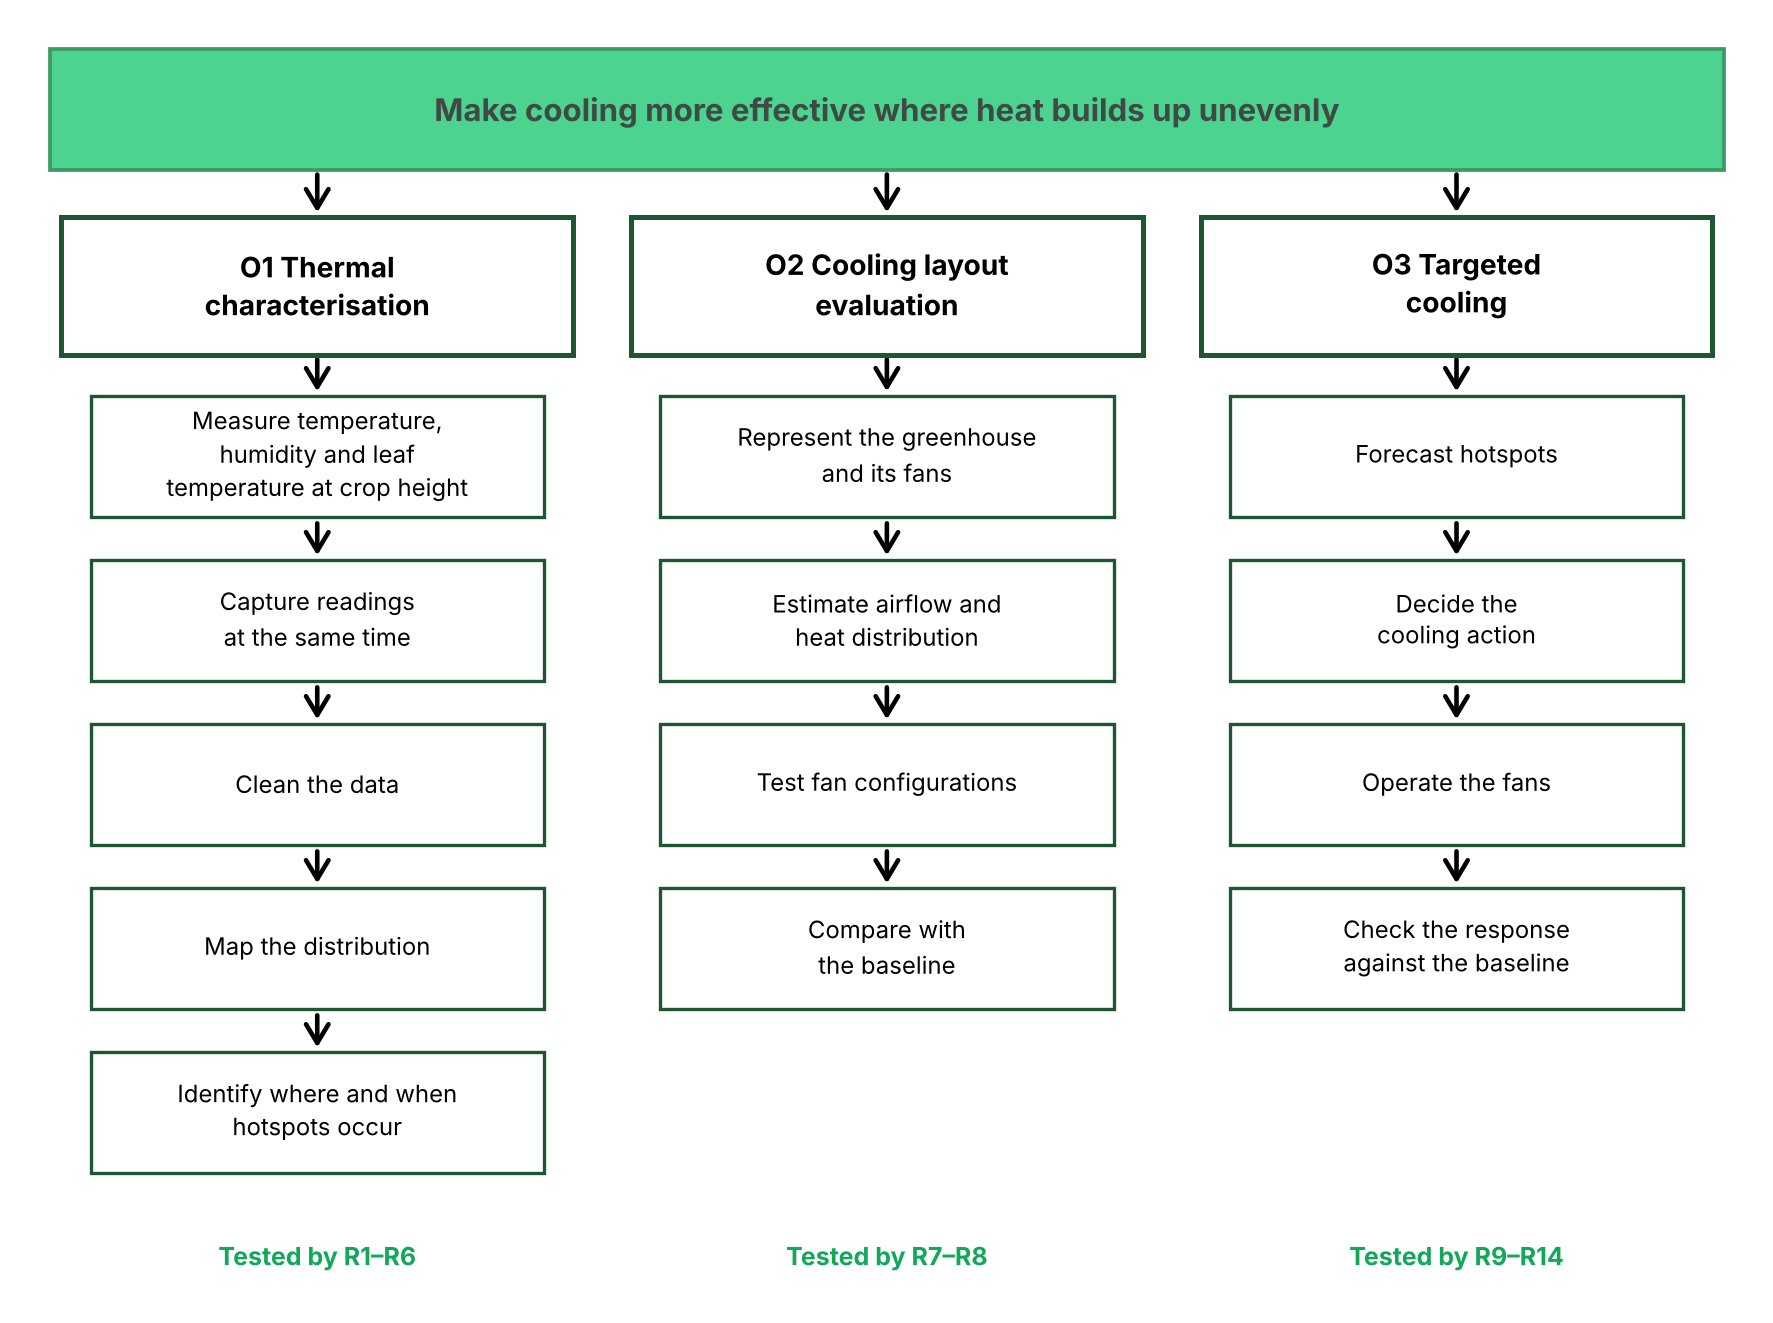
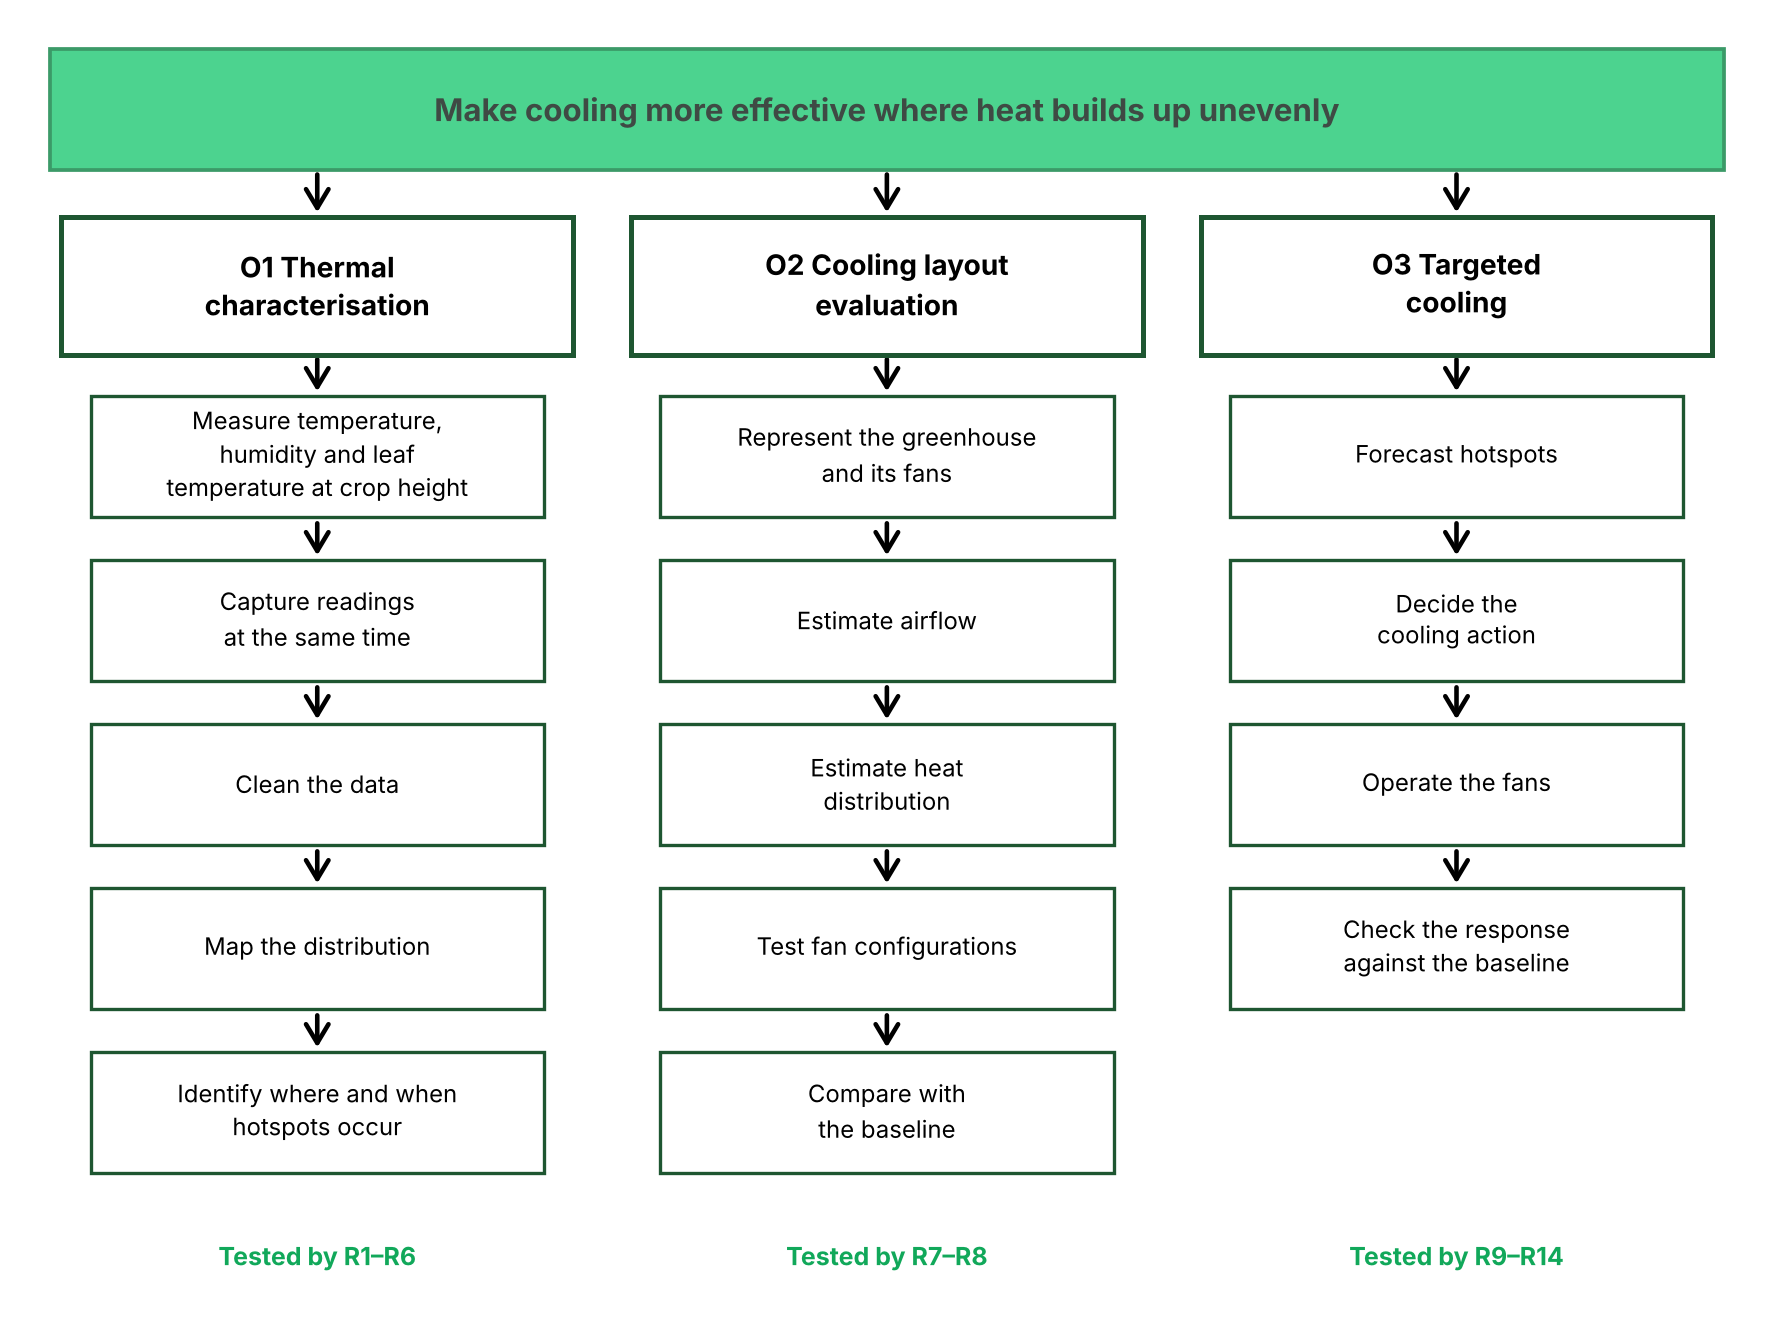
Split O2 function into airflow and heat distribution (table, 4.1 text, Figure 10, Table 9)
Claude-Session: https://claude.ai/code/session_01DMX67LB1LwVtEXfwtyfhDE

diff --git a/docs/report-tables.js b/docs/report-tables.js
@@ -117,7 +117,7 @@ const tables = {
     columns: ["Subsystem", "Goal", "Deliverables", "Verified by", "Status (end of Semester 1)"],
     data: [
       ["S1 Sense", "Durable, location-tagged crop-zone T/RH and canopy temperature", "Type A/B nodes, shielded enclosure, RS-485 network, permanent and temporary nodes, gateway logging", "R1–R6", "Prototype node; bench accuracy tested; RS-485 to MQTT verified"],
-      ["S2 Map & Model", "Thermal map with soft sensors; 30-min hotspot prediction; CFD checked in the test section; fan-configuration comparison", "Soft-sensor and prediction models, Gaussian process regression map, CFD model, configuration ranking, dashboard", "R5–R9, R13", "57-point survey and heatmap; GH1 dimensions recorded"],
+      ["S2 Map & Model", "Thermal map with soft sensors; 30-min hotspot prediction; airflow from CFD and heat distribution from live data and CFD, checked in the test section; fan-configuration comparison", "Soft-sensor and prediction models, Gaussian process regression map, CFD model, configuration ranking, dashboard", "R5–R9, R13", "57-point survey and heatmap; GH1 dimensions recorded"],
       ["S3 Decide", "Decide fan actions from predicted crop-zone hotspots", "Hotspot index; prediction-triggered rules with fail-safe", "R9, R10, R12, R14", "Control approach defined"],
       ["S4 Actuate", "Run fan commands safely and measure their energy", "Four procured floor fans, speed/relay interface, energy metering", "R10–R12", "Fans to be procured"],
     ],
@@ -130,10 +130,11 @@ const tables = {
       { group: "O1 Thermal characterisation" },
       ["Capture readings at the same time", "Sensor-to-gateway link", "RS-485, Wi-Fi, BLE, Zigbee, LoRa", "RS-485, wireless option benchmarked", "Robust over ~57 m and already verified end-to-end; wireless avoids cabling but needs reliability and power testing"],
       ["Clean the data", "Edge computer", "Raspberry Pi 5, laptop, cloud", "Raspberry Pi 5", "Low cost and power: runs Docker, MQTT and Node-RED locally"],
-      ["Map the distribution", "Thermal map method", "Permanent grid inverse-distance weighting. Gaussian process regression: soft sensors trained on temporary nodes", "Soft sensors, with Gaussian process regression between nodes", "Fewer permanent nodes after training; Gaussian process regression shows where uncertainty remains"],
+      ["Map the distribution", "Thermal map method", "Permanent grid inverse-distance weighting. Gaussian process regression: soft sensors trained on temporary nodes", "Soft sensors, with Gaussian process regression between nodes", "Fewer permanent nodes after training. Gaussian process regression shows where uncertainty remains"],
       { group: "O2 Cooling layout evaluation" },
-      ["Estimate airflow and heat distribution", "Modelling approach", "Run CFD live; data only; offline CFD plus data-driven twin", "Offline CFD for design; data-driven twin for operation, tested together", "CFD is too slow for live use but can evaluate untested layouts; a data-driven twin is fast and checked directly by sensors"],
-      ["Estimate airflow and heat distribution", "CFD tool", "SOLIDWORKS Flow Simulation; ANSYS Fluent; OpenFOAM", "SOLIDWORKS Flow Simulation", "Integrated with the CAD model and available; adequate for comparative studies"],
+      ["Estimate airflow", "Airflow method", "CFD; dense airspeed survey; empirical fan-jet estimates", "Offline CFD with measured inputs (roof temperature, fan flow, geometry)", "Airflow cannot be measured densely; CFD can evaluate layouts before they are installed"],
+      ["Estimate heat distribution", "Heat-distribution method", "CFD only; measured data only; both", "Live data-driven twin for tested layouts; CFD for layouts not yet installed", "Sensors give the real distribution where fans exist; CFD extends it to untested layouts; both are compared in the test section"],
+      ["Estimate airflow", "CFD tool", "SOLIDWORKS Flow Simulation; ANSYS Fluent; OpenFOAM", "SOLIDWORKS Flow Simulation", "Integrated with the CAD model and available; adequate for comparative studies"],
       { group: "O3 Targeted cooling" },
       ["Forecast hotspots", "Weather input", "On-site sensors only; NEA live readings and 2-hour nowcast; global forecast service", "NEA live readings and nowcast, with on-site fallback", "Local, free and updated every minute; the system still runs offline"],
       ["Decide the cooling action", "Controller", "PID; reactive rules; rules triggered by 30-min predictions; model predictive control", "Rules triggered by 30-min predictions (MPC as stretch)", "Starts fans before hotspots form while staying transparent and testable in the timeline"],

diff --git a/tools/diagrams/report_diagrams.py b/tools/diagrams/report_diagrams.py
@@ -313,7 +313,8 @@ def functional_decomposition():
         ("O1 Thermal\ncharacterisation", ["Measure temperature,\nhumidity and leaf\ntemperature at crop height",
                                            "Capture readings\nat the same time", "Clean the data",
                                            "Map the distribution", "Identify where and when\nhotspots occur"], "R1–R6"),
-        ("O2 Cooling layout\nevaluation", ["Represent the greenhouse\nand its fans", "Estimate airflow and\nheat distribution",
+        ("O2 Cooling layout\nevaluation", ["Represent the greenhouse\nand its fans", "Estimate airflow",
+                                           "Estimate heat\ndistribution",
                                            "Test fan configurations", "Compare with\nthe baseline"], "R7–R8"),
         ("O3 Targeted\ncooling", ["Forecast hotspots", "Decide the\ncooling action", "Operate the fans",
                                    "Check the response\nagainst the baseline"], "R9–R14"),

diff --git a/docs/sections/04-concept-development.md b/docs/sections/04-concept-development.md
@@ -3,7 +3,7 @@ title: 4. Concept Development and Selection
 ---
 ### 4.1. Functional and System Decomposition
 
-Each objective was broken down into the functions a solution must perform (Figure 10). O1 requires conditions to be measured at crop height, captured at the same time, cleaned and mapped to locate hotspots. O2 requires airflow and heat distribution to be estimated for different fan configurations and compared with the baseline. O3 requires hotspots to be forecast, a cooling action decided, fans operated and the response checked.
+Each objective was broken down into the functions a solution must perform (Figure 10). O1 requires conditions to be measured at crop height, captured at the same time, cleaned and mapped to locate hotspots. O2 requires airflow and heat distribution to be estimated separately for different fan configurations and compared with the baseline. O3 requires hotspots to be forecast, a cooling action decided, fans operated and the response checked.
 
 ![Figure 10. Functional decomposition of the objectives, with the requirements that test each one](assets/fig-functional-decomposition.png)
 
